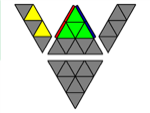
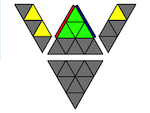
Add missing L33R image to L3C page.

diff --git a/pyraminx/l3c.html b/pyraminx/l3c.html
@@ -80,14 +80,13 @@ title: Pyraminx &mdash; Last 3 Centers
       </div>
     </li>
 
-    <!-- TODO - this one doesn't correspond to any image I have -->
-    <li id="1">
+    <li id="3LLR">
       <div class="overview">
-        <img src="/images/pyraminx/L3C-.png">
+        <img src="/images/pyraminx/L3C-3LLR.png">
       </div>
 
       <div class="details">
-        <span class="alg"></span>
+        <span class="alg">B' U R U L'</span>
       </div>
     </li>
 
